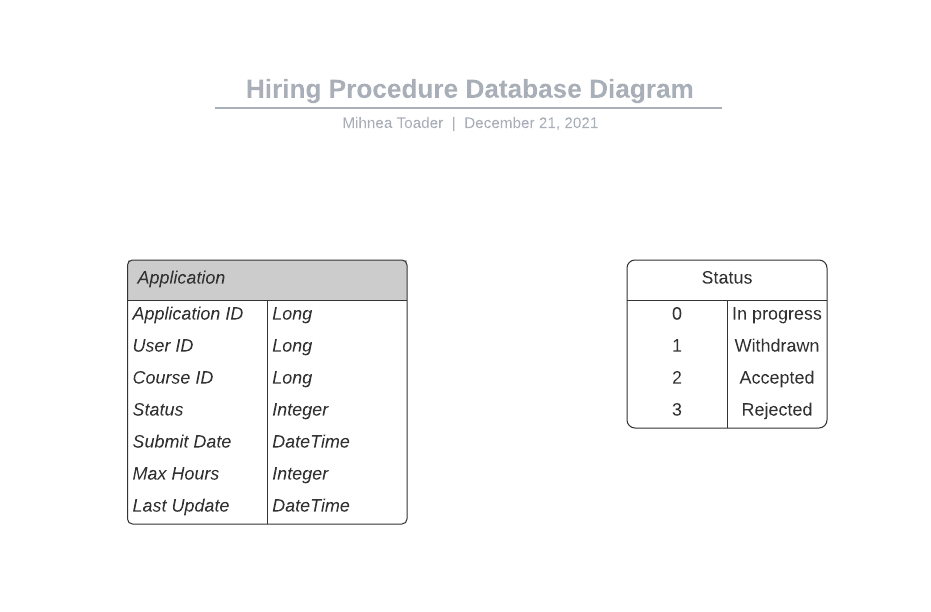
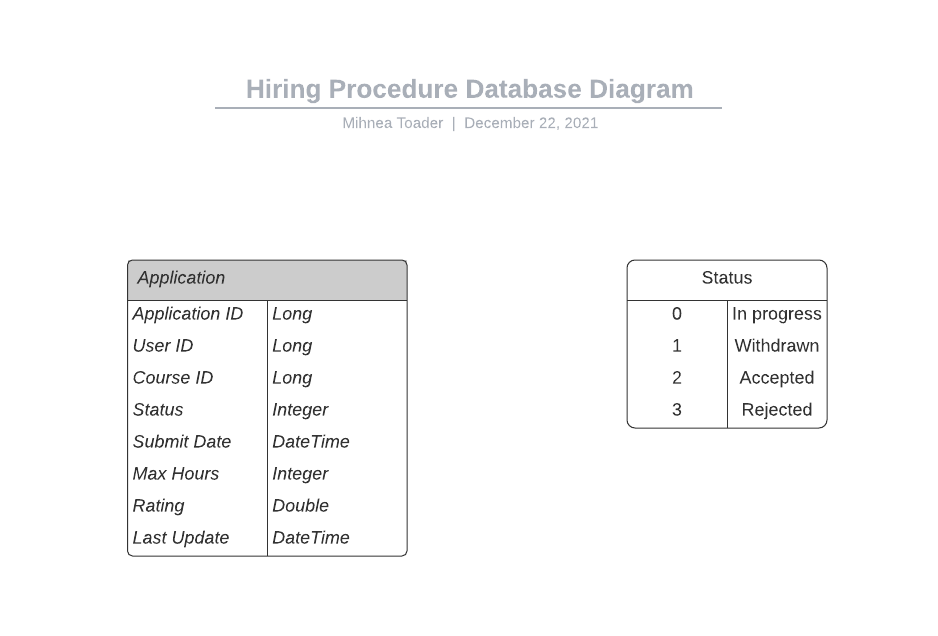
Update documentation

Changed region(s): [[0.1246, 0.4036, 0.4361, 0.9003], [0.6541, 0.4036, 0.9033, 0.7141], [0.218, 0.1242, 0.7787, 0.2173]]

diff --git a/microservices/hiring-procedure/docs/API-document.md b/microservices/hiring-procedure/docs/API-document.md
@@ -224,3 +224,73 @@ Endpoint for getting the maximum allowed contractual hours for an application. T
 | 200 OK        | Successful completion                                        |
 | 403 FORBIDDEN | User is not permitted to access the endpoint                 |
 | 404 NOT FOUND | The specified application does not exist                     |
+---
+
+## Rate
+
+```
+POST  /api/hiring-procedure/rate?applicationId=<...>
+```
+
+Endpoint for rating a TA. The header of the request should contain the JWT of the user's session. Only lecturers and admins are allowed to use this endpoint.
+
+| Query parameter | Value                                                       |
+| --------------- | ----------------------------------------------------------- |
+| applicationId   | The ID of the application that will be rated                |
+
+**Expected body format**:
+
+```json
+{
+	"rating" : 8.7
+}
+```
+
+| Response code   | Reason                                                       |
+| --------------- | ------------------------------------------------------------ |
+| 200 OK          | Successful completion                                        |
+| 400 BAD REQUEST | Body is not according to guideline                           |
+| 403 FORBIDDEN   | User is not permitted to access the endpoint                 |
+| 403 FORBIDDEN   | The specified application is not approved                    |
+| 404 NOT FOUND   | The specified application does not exist                     |
+
+---
+
+## Get Rating
+
+```
+GET  /api/hiring-procedure/get-rating?courseId=<...>
+```
+
+Endpoint for getting a TA's rating for a course. The header of the request should contain the JWT of the user's session. Only TAs are allowed to use this endpoint.
+
+| Query parameter | Value                                                       |
+| --------------- | ----------------------------------------------------------- |
+| courseId        | The ID of the course associated to the TA position          |
+
+| Response code | Reason                                                       |
+| ------------- | ------------------------------------------------------------ |
+| 200 OK        | Successful completion                                        |
+| 403 FORBIDDEN | User is not permitted to access the endpoint                 |
+| 403 FORBIDDEN | The specified application is not approved                    |
+| 404 NOT FOUND | The specified position does not exist                        |
+
+---
+
+```
+GET  /api/hiring-procedure/get-rating?userId=<...>&courseId=<...>
+```
+
+Endpoint for getting a TA's rating for a course. The header of the request should contain the JWT of the user's session. Only lecturers and admins are allowed to use this endpoint.
+
+| Query parameter | Value                                                       |
+| --------------- | ----------------------------------------------------------- |
+| userId          | The ID of the user associated to the TA position            |
+| courseId        | The ID of the course associated to the TA position          |
+
+| Response code | Reason                                                       |
+| ------------- | ------------------------------------------------------------ |
+| 200 OK        | Successful completion                                        |
+| 403 FORBIDDEN | User is not permitted to access the endpoint                 |
+| 403 FORBIDDEN | The specified application is not approved                    |
+| 404 NOT FOUND | The specified application does not exist                     |
